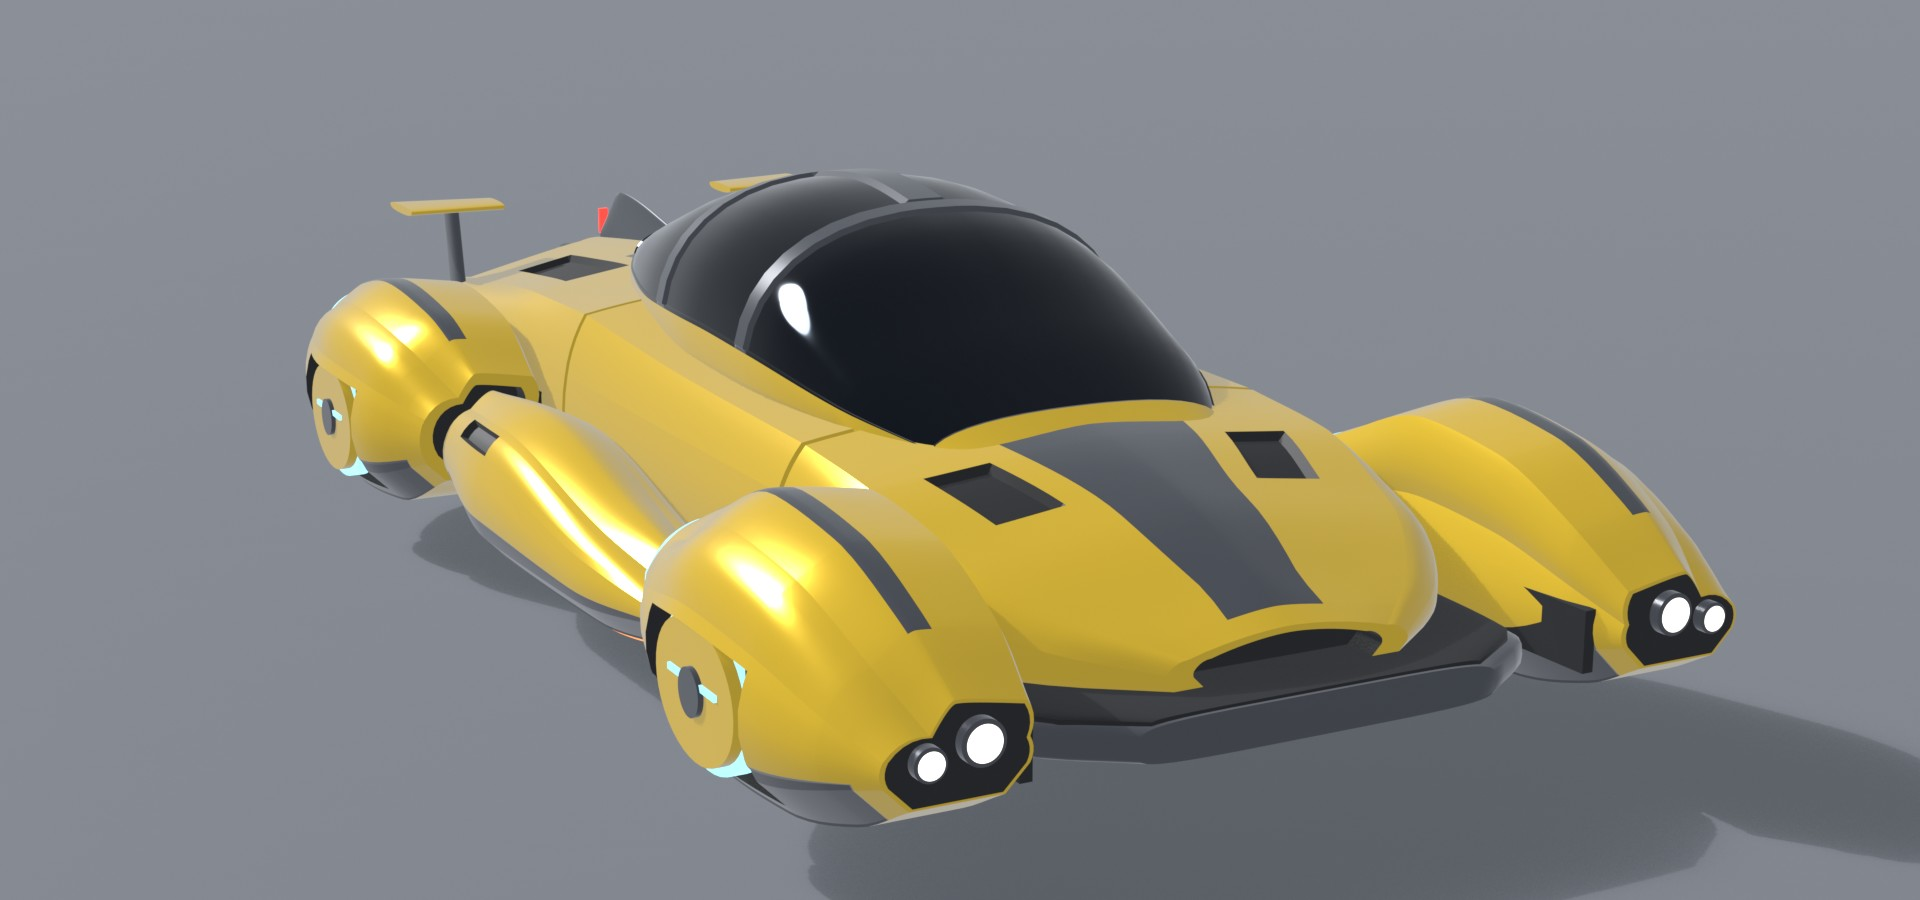
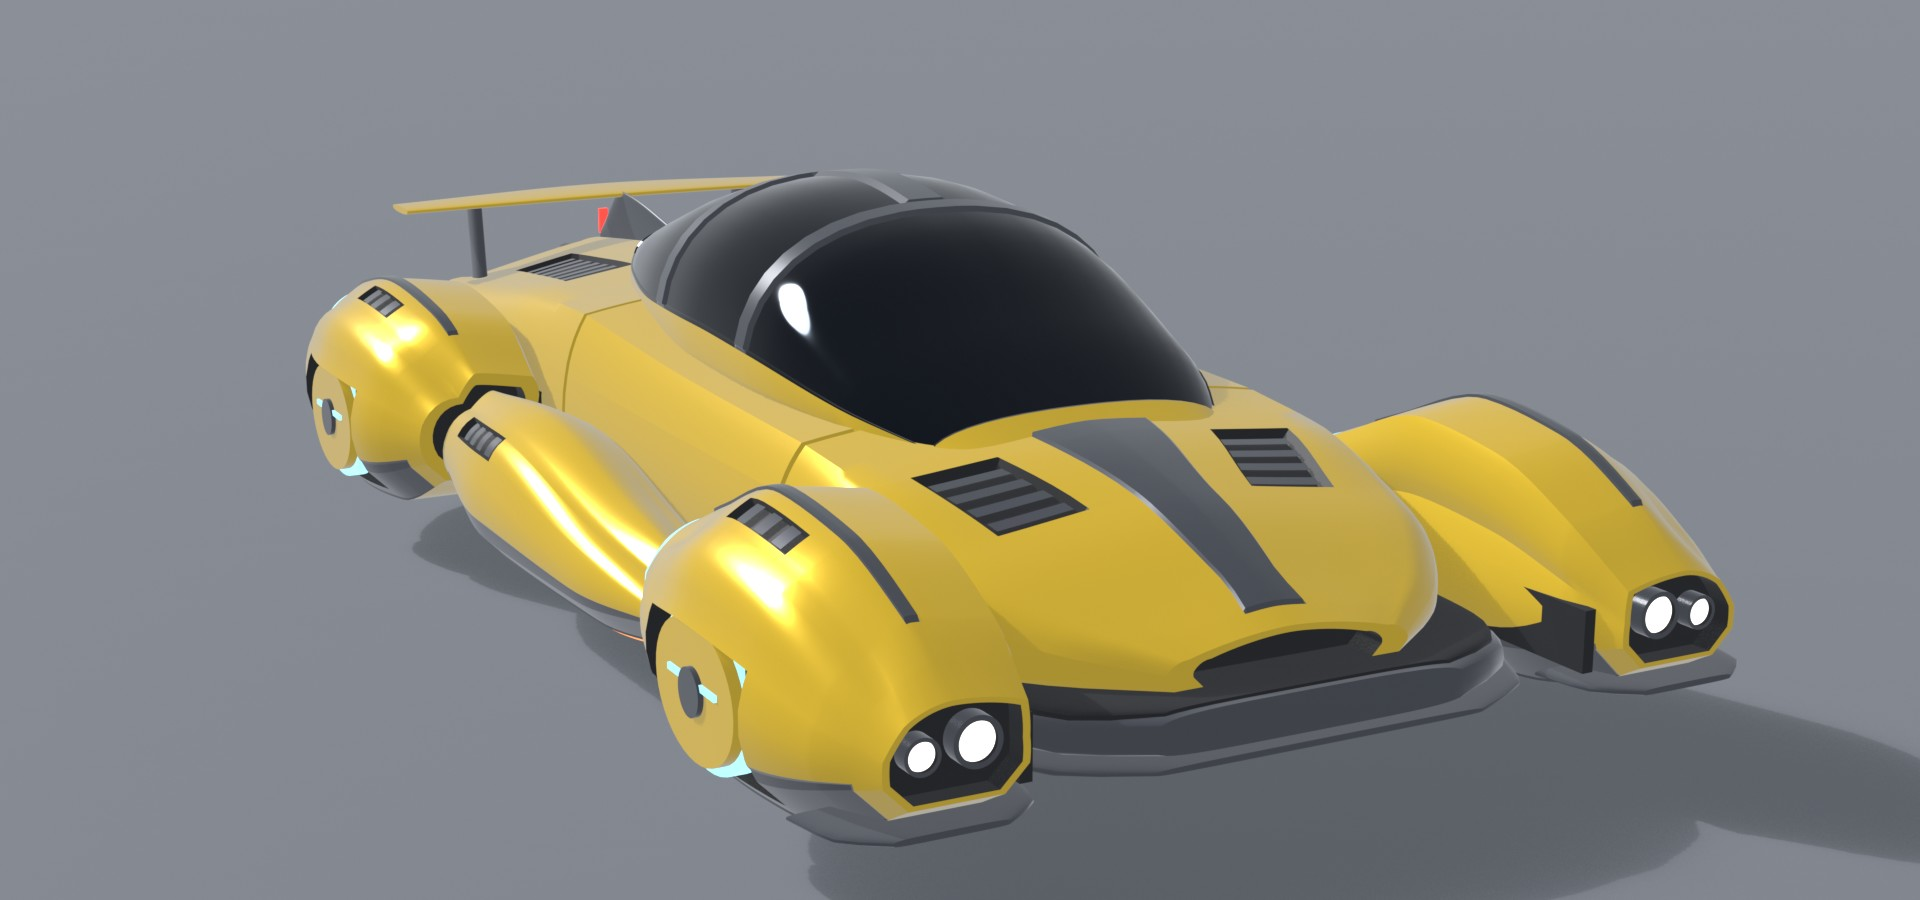
garage: Exotic round car refined to match the sharp car
Recessed twin round lamps in each front fender, raised crest on the fenders and
a raised spine on nose and tail, louvres in the hood, fender tops, sills and
tail deck, rounded carbon tray and splitter lips that follow the nose and
fenders, a single low gull wing blade, thin diffuser vanes. Soft shoulders:
only the rocker lines stay hard on the fenders and sills.
Blender only: nothing installed in Studio.

diff --git a/scripts/exotic_category/mesh/cars.py b/scripts/exotic_category/mesh/cars.py
@@ -228,17 +228,19 @@ B_POD = dict(rb=0.5, tum=0.55, drop=0.35, tumi=0.03, dropi=0.14, wcf=0.35, d2=0.
 B_END = dict(rb=0.3, wcf=0.6, d2=0.02, drop=0.2, tum=0.25, crown=0.03)
 
 
-def b_pod(pod, z0, z1, peak, caps):
-    """Round fender over a dark arch, carbon rocker, dark crest, round vented shell in the arch."""
+def b_pod(pod, z0, z1, peak, caps, extra=()):
+    """Round fender over a dark arch: carbon rocker, raised crest, louvred vent, round vented shell."""
     pod.build("skin", "primary", mirror=True, caps=caps, regions=[
         R(z0 + 0.4, z1 - 0.3, 1.0, 2.15, "secondary", 0.02),
         R(peak - 1.5, peak + 1.5, 1.3, 2.9, "detail", 0.3, side=1),
-        R(z0 + 0.8, z1 - 0.6, 5.4, 6.0, "secondary", 0.0),
-        R(z1 - 0.2, z1 - 0.07, 0.0, 6.0, "neon", -0.01)])
+        R(peak - 1.0, peak + 0.6, 4.2, 4.95, "detail", 0.12, side=1),
+        R(z0 + 0.9, z1 - 0.7, 5.62, 6.0, "secondary", -0.04),
+        R(z1 - 0.2, z1 - 0.07, 0.0, 6.0, "neon", -0.01), *extra])
+    louvres(pod, "top", peak - 0.9, peak + 0.5, 4.26, 4.89, 3, off=-0.05)
     shell(pod, peak, 1.15, -0.72, 1.0, 2.0, rim="neon")
     x = pod.params(peak)["cx"] + pod.params(peak)["w"]
-    hub = Loft([(x - 0.1, {}), (x + 0.1, {})], axis="x", cx=peak, w=0.3, yb=-0.16, yt=0.44, nt=2, nb=2, yw=0.5)
-    hub.build("hub", "secondary", mirror=True)
+    Loft([(x - 0.1, {}), (x + 0.1, {})], axis="x", cx=peak, w=0.3, yb=-0.16, yt=0.44, nt=2, nb=2,
+         yw=0.5).build("hub", "secondary", mirror=True)
     lift_glow(pod, [(peak - 1.0, peak + 1.0)])
     pod.throat("noz", "max", lip="secondary", back="thrust", scale=0.8, depth=0.4, mirror=True)
 
@@ -255,57 +257,71 @@ def car_b():
         R(-6.3, 6.8, 8, 172, "glass", 0.03), R(-2.0, 7.2, 85, 95, "secondary", -0.04),
         R(1.1, 1.6, 8, 172, "secondary", -0.04), R(-2.4, -2.0, 8, 172, "secondary", -0.04)])
 
+    # Nose: a pointed prow recessed between the fenders, round centre intake, raised spine.
+    # A rounded carbon tray and splitter lip fill the space to the fenders.
     K.begin(c, "NOSE")
     nose = Hull([(-11.2, dict(w=1.7, yb=0.0, yt=0.7, rb=0.25, ys=0.35, tum=0.3, drop=0.2, wcf=0.55, d2=0.03)),
                  (-10.3, dict(w=2.8, yb=-0.3, yt=1.15, ys=0.55, tum=0.45, drop=0.35)),
                  (-8.9, dict(w=3.6, yt=1.7, ys=0.9, tum=0.5, drop=0.42)),
                  (-7.0, dict(w=3.8, yt=2.1, ys=1.25, tum=0.38, drop=0.3, wcf=0.4, crown=0.07)),
-                 (-5.2, SEAM_F)], yb=-0.4, rb=0.5, wcf=0.2, d2=0.12, crown=0.12)
+                 (-5.2, SEAM_F)], creases=(1, 2, 3), yb=-0.4, rb=0.5, wcf=0.2, d2=0.12, crown=0.12)
     nose.build("skin", "primary", t1=-5.2 - GAP, caps=(False, True), regions=[
-        R(-10.9, -5.6, 5.0, 6.0, "secondary", 0.0), R(-8.4, -7.1, 4.3, 4.75, "detail", 0.12)])
+        R(-10.9, -5.6, 5.3, 6.0, "secondary", -0.03), R(-8.6, -7.0, 4.25, 4.85, "detail", 0.14)])
+    louvres(nose, "hood", -8.5, -7.1, 4.3, 4.8, 4, off=-0.07)
     nose.throat("mouth", "min", lip="primary", scale=0.78, depth=0.5)
-    Loft([(-11.9, dict(w=2.5)), (-11.0, dict(w=3.6)), (-8.6, dict(w=3.75))], yb=-0.42, yt=0.1, nt=5, nb=5).build(
-        "duct", "secondary")
-    Loft([(-11.85, dict(w=2.3)), (-11.0, dict(w=3.4)), (-8.7, dict(w=3.6))], yb=0.0, yt=0.14, nt=5, nb=5).build(
-        "floor", "detail")
+    Loft([(-11.75, dict(w=2.2)), (-11.2, dict(w=3.2)), (-10.3, dict(w=3.6)), (-8.8, dict(w=3.75))],
+         yb=-0.42, yt=0.1, nt=4, nb=5).build("tray", "secondary")
+    Loft([(-11.65, dict(w=2.0)), (-11.2, dict(w=3.0)), (-10.3, dict(w=3.45)), (-8.9, dict(w=3.6))],
+         yb=0.0, yt=0.14, nt=4, nb=5).build("floor", "detail")
+    Loft([(-11.95, dict(w=2.3)), (-11.4, dict(w=3.3)), (-10.5, dict(w=3.78))], yb=-0.52, yt=-0.44, nt=4,
+         nb=5).build("splitter", "secondary")
 
+    # Front engines: round fenders that lead the car. Twin round lamps set into the front face.
     K.begin(c, "FPOD")
-    pod = Hull([(-12.3, dict(cx=5.0, w=0.85, wi=0.9, yb=-0.2, yt=0.95, ys=0.4, rb=0.3)),
+    pod = Hull([(-12.3, dict(cx=5.0, w=0.85, wi=0.9, yb=-0.2, yt=0.95, ys=0.4, **B_END)),
                 (-11.3, dict(cx=5.06, w=1.1, wi=1.08, yb=-0.7, yt=1.6, ys=0.7)),
                 (-9.9, dict(cx=5.12, w=1.22, wi=1.15, yb=-1.0, yt=2.15, ys=1.0)),
                 (-8.4, dict(cx=5.15, w=1.25, wi=1.18, yb=-1.05, yt=2.3, ys=1.1)),
                 (-6.6, dict(cx=5.08, w=1.08, wi=1.1, yb=-0.6, yt=1.7, ys=0.8)),
-                (-5.4, dict(cx=4.95, w=0.78, wi=0.92, yb=0.1, yt=1.2, ys=0.65, **B_END))], **B_POD)
-    b_pod(pod, -12.3, -5.4, -8.6, (True, False))
-    pod.cap("face", "min", "detail", scale=0.94, push=-0.02, mirror=True)
-    for i, (x, y, r) in enumerate(((4.74, 0.48, 0.27), (5.37, 0.34, 0.2))):
-        lamp = tube(-12.46, -12.2, x, y, r)
-        lamp.build(f"lamp{i}", "secondary", mirror=True)
-        lamp.cap(f"lens{i}", "min", "lights", scale=0.8, push=-0.02, mirror=True)
+                (-5.4, dict(cx=4.95, w=0.78, wi=0.92, yb=0.1, yt=1.2, ys=0.65, **B_END))],
+               creases=(1, 2), **B_POD)
+    b_pod(pod, -12.3, -5.4, -8.6, (False, False))
+    pod.throat("housing", "min", lip="primary", scale=0.9, depth=0.3, mirror=True)
+    for i, (x, y, r) in enumerate(((4.7, 0.42, 0.3), (5.36, 0.36, 0.22))):
+        lamp = tube(-12.26, -12.02, x, y, r)
+        lamp.build(f"lamp{i}", "secondary", mirror=True, caps=(False, True))
+        lamp.throat(f"lens{i}", "min", lip="secondary", back="lights", scale=0.78, depth=0.06, mirror=True)
+    Loft([(-12.4, dict(w=0.7)), (-12.0, dict(w=1.2)), (-11.2, dict(w=1.38))], cx=5.08, yb=-0.52, yt=-0.44,
+         nt=4, nb=5).build("splitter", "secondary", mirror=True)
     flange(-11.9, -5.6, 0.5)
 
+    # Tail: drooping round tail with a dorsal fin, round lamps and a louvred deck.
     K.begin(c, "TAIL")
     tail = Hull([(2.8, SEAM_R), (5.5, dict(w=3.75, yt=2.55, tum=0.5, drop=0.42, crown=0.1)),
                  (8.5, dict(w=3.6, yb=-0.2, yt=2.3, ys=1.25, tum=0.7, drop=0.5, rb=0.7)),
                  (11.2, dict(w=3.4, yb=0.3, yt=2.0, ys=1.15, tum=0.8, drop=0.55, rb=0.85))],
-                **{**SEAM_R, "rb": 0.5, "wcf": 0.3, "d2": 0.1, "crown": 0.14})
+                creases=(1, 2, 3), **{**SEAM_R, "rb": 0.5, "wcf": 0.3, "d2": 0.1, "crown": 0.14})
     tail.build("skin", "primary", t0=2.8 + GAP, caps=(True, False), regions=[
-        R(8.8, 11.2, 0.0, 2.2, "secondary", 0.02), R(3.0, 7.4, 5.0, 6.0, "secondary", 0.0),
-        R(6.2, 9.6, 4.25, 4.8, "detail", 0.12)])
+        R(8.8, 11.2, 0.0, 2.2, "secondary", 0.02), R(3.0, 7.4, 5.3, 6.0, "secondary", -0.03),
+        R(6.2, 9.8, 4.25, 4.85, "detail", 0.14)])
+    louvres(tail, "deck", 6.3, 9.7, 4.3, 4.8, 7, off=-0.07)
     tail.throat("fascia", "max", lip="primary", scale=0.9, depth=0.25)
-    lamp = tube(10.96, 11.2, 2.82, 1.2, 0.22)
-    lamp.build("lamp", "secondary", mirror=True)
-    lamp.cap("lens", "max", "lights_red", scale=0.78, push=0.02, mirror=True)
+    lamp = tube(10.96, 11.2, 2.82, 1.2, 0.24)
+    lamp.build("lamp", "secondary", mirror=True, caps=(True, False))
+    lamp.throat("lens", "max", lip="secondary", back="lights_red", scale=0.78, depth=0.06, mirror=True)
     fin = Loft([(7.4, dict(yt=2.6)), (10.2, dict(yt=2.98)), (11.15, dict(yt=2.2))], w=0.09, yb=1.85, nt=2, nb=2)
     fin.build("fin", "secondary")
     box("rain", (0, 2.3, 11.2), (0.16, 0.45, 0.08), "lights_red")
+    for i, x in enumerate((2.75, 3.1)):
+        box(f"vane{i}", (x, -0.05, 10.95), (0.06, 0.6, 1.0), "detail", mirror=True)
 
     K.begin(c, "RPOD")
     pod = Hull([(3.6, dict(cx=4.98, w=0.85, wi=0.95, yb=-0.3, yt=1.35, ys=0.7, rb=0.3)),
                 (5.2, dict(cx=5.1, w=1.18, wi=1.14, yb=-0.95, yt=2.05, ys=1.0)),
                 (7.0, dict(cx=5.15, w=1.25, wi=1.18, yb=-1.05, yt=2.25, ys=1.1)),
                 (9.2, dict(cx=5.06, w=1.02, wi=1.06, yb=-0.5, yt=1.9, ys=1.0)),
-                (10.6, dict(cx=4.88, w=0.68, wi=0.8, yb=0.2, yt=1.45, ys=0.85, **B_END))], **B_POD)
+                (10.6, dict(cx=4.88, w=0.68, wi=0.8, yb=0.2, yt=1.45, ys=0.85, **B_END))],
+               creases=(1, 2), **B_POD)
     b_pod(pod, 3.6, 10.6, 6.9, (False, False))
     pod.throat("intake", "min", lip="primary", scale=0.78, depth=0.4, mirror=True)
     flange(3.8, 10.0, 0.9)
@@ -313,9 +329,10 @@ def car_b():
     K.begin(c, "STAB")
     sill = Hull([(-5.2, dict(w=0.6, yb=-0.6, yt=0.25, ys=-0.1)), (-2.5, dict(w=0.9, yt=0.7, ys=0.15)),
                  (1.0, dict(w=1.0, yt=1.3, ys=0.6)), (3.4, dict(w=0.75, yb=-0.5, yt=1.1, ys=0.5))],
-                cx=4.8, yb=-0.9, rb=0.35, tum=0.4, drop=0.25, wcf=0.4, d2=0.03, crown=0.12)
+                creases=(1, 2), cx=4.8, yb=-0.9, rb=0.35, tum=0.4, drop=0.25, wcf=0.4, d2=0.03, crown=0.12)
     sill.build("skin", "primary", mirror=True, regions=[
-        R(-4.9, 3.1, 1.0, 2.3, "secondary", 0.02), R(0.9, 2.5, 3.2, 3.8, "detail", 0.12, side=1)])
+        R(-4.9, 3.1, 1.0, 2.3, "secondary", 0.02), R(0.7, 2.7, 3.15, 3.85, "detail", 0.13, side=1)])
+    louvres(sill, "intake", 0.8, 2.6, 3.2, 3.8, 4, off=-0.07)
     lift_glow(sill, [(-4.0, -2.4), (-0.6, 1.2)])
 
     # Boost: four rings high in the tail. Small keel below.
@@ -326,12 +343,13 @@ def car_b():
         t = tube(11.2, 12.15, 0.38, 1.08 + dy, 0.31)
         t.build(f"burner{i}", "secondary", mirror=True, caps=(True, False))
         t.throat(f"noz{i}", "max", lip="secondary", back="thrust", scale=0.8, depth=0.3, mirror=True)
-    box("keel", (0, -0.05, 11.2), (0.14, 0.6, 0.9), "secondary")
+    box("keel", (0, -0.05, 11.2), (0.1, 0.6, 0.9), "secondary")
 
+    # Wing: one low gull blade across the tail on two blade pylons.
     K.begin(c, "WING")
-    Loft([(2.2, dict(w=0.5, cx=10.8)), (3.9, dict(w=0.66, cx=11.0))], axis="x", yb=2.75, yt=2.9, yw=0.6,
-         nt=2.2, nb=2.6).build("flap", "primary", mirror=True)
-    blade("pylon", 3.0, 1.25, 2.79, (10.3, 11.1), (10.6, 11.3), "secondary")
+    Loft([(-3.9, dict(cx=11.05, w=0.45, yb=2.75, yt=2.87)), (0, {}), (3.9, dict(cx=11.05, w=0.45, yb=2.75, yt=2.87))],
+         axis="x", cx=10.75, w=0.7, yb=2.85, yt=3.0, yw=0.6, nt=2.2, nb=2.6).build("blade", "primary")
+    blade("pylon", 2.6, 1.25, 2.84, (10.3, 11.0), (10.5, 11.2), "secondary")
 
 
 # ---------------------------------------------------------------- builds and sheets
@@ -379,6 +397,8 @@ def build_all(render=True):
             files.append(K.shot(j(OUT, f"{car}_side.jpg"), (x, 1.0, 0), az, 4, 60, only=only))
             files.append(K.shot(j(OUT, f"{car}_rear_close.jpg"), (x, 1.0, 3), 24, 14, 38, only=only))
             files.append(K.shot(j(OUT, f"{car}_front_close.jpg"), (x, 1.0, -3), 152, 14, 38, only=only))
+            files.append(K.shot(j(OUT, f"{car}_front_low.jpg"), (x - (0.5 if car == "a" else -0.5), 0.6, -6),
+                                180 - (22 if car == "a" else -22), 3, 30, only=only))
         files.append(K.shot(j(OUT, "pure_top.jpg"), (0, 0, 0), 180, 89, 80, only=["pure0", "pure1"]))
     stats = {k: v["tris"] for k, v in K.MODS.items()}
     return {"problems": problems, "files": files, "stats": stats}
